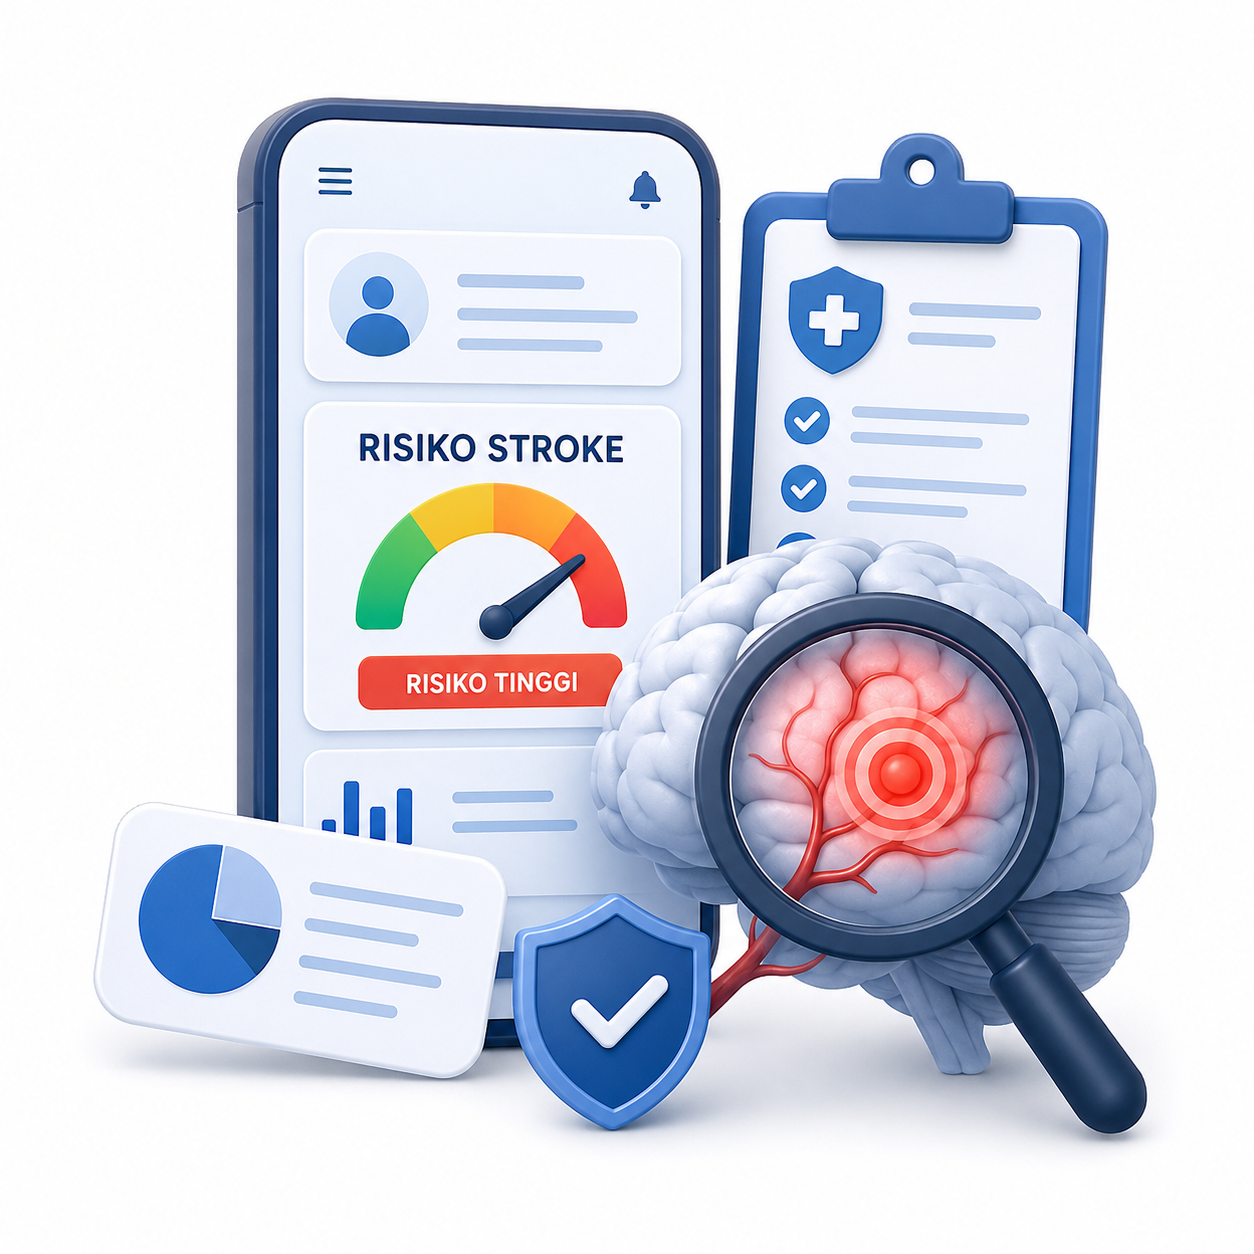
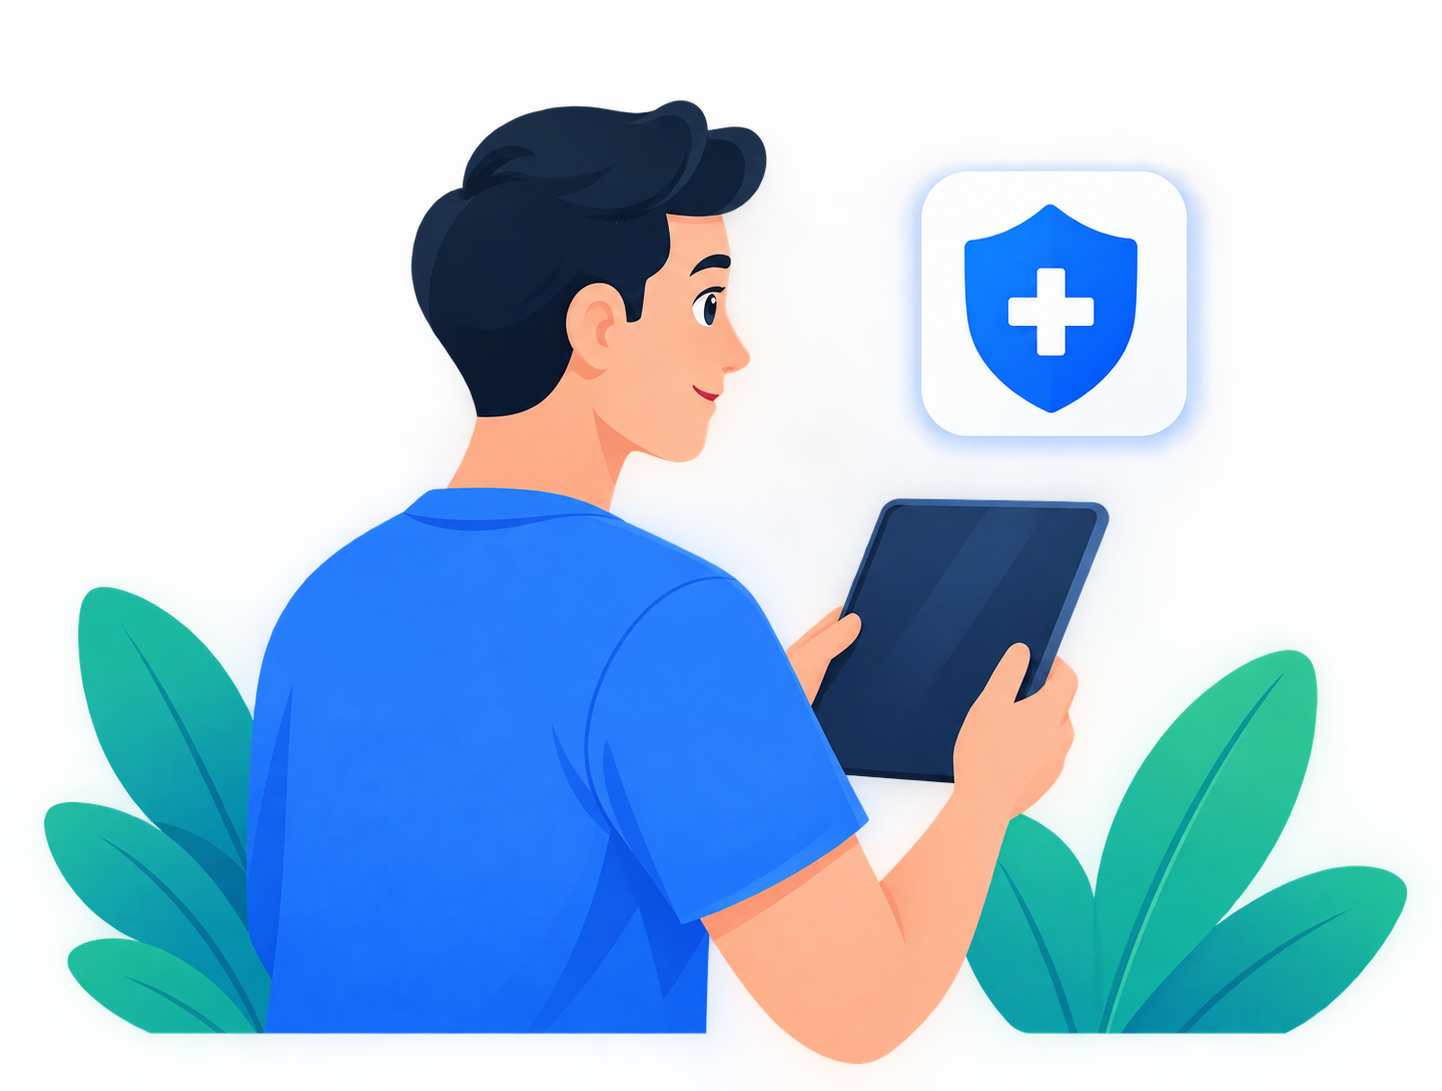
feat: add AboutDetect component and integrate into main page

diff --git a/src/app/user/components/working.tsx b/src/app/user/components/working.tsx
@@ -1,47 +1,95 @@
 import React from 'react';
-import widgets4 from '@/assets/images/landing-page/about-1.png';
-import widgets5 from '@/assets/images/landing/widgets-5.jpg';
-import widgets6 from '@/assets/images/landing/widgets-6.jpg';
-import widgets7 from '@/assets/images/landing/widgets-7.jpg';
-import widgets8 from '@/assets/images/landing/widgets-8.jpg';
-import widgets9 from '@/assets/images/landing/widgets-9.jpg';
+import { LuClipboardCheck, LuClipboardPen, LuClock, LuSettings } from 'react-icons/lu';
 
-import Image from 'next/image';
+type Step = {
+  number: number;
+  icon: React.ElementType;
+  iconColor: string;
+  iconBg: string;
+  title: string;
+  description: string;
+};
+
+const steps: Step[] = [
+  {
+    number: 1,
+    icon: LuClipboardPen,
+    iconColor: 'text-primary',
+    iconBg: 'bg-primary/10',
+    title: 'Isi Data Kesehatan',
+    description: 'Masukkan informasi kesehatan dan gejala yang Anda alami.',
+  },
+  {
+    number: 2,
+    icon: LuSettings,
+    iconColor: 'text-purple-500',
+    iconBg: 'bg-purple-500/10',
+    title: 'Proses Analisis Otomatis',
+    description: 'Sistem akan menganalisis data yang Anda masukkan secara otomatis.',
+  },
+  {
+    number: 3,
+    icon: LuClipboardCheck,
+    iconColor: 'text-success',
+    iconBg: 'bg-success/10',
+    title: 'Lihat Hasil Deteksi',
+    description: 'Dapatkan hasil prediksi risiko stroke secara cepat dan akurat.',
+  },
+  {
+    number: 4,
+    icon: LuClock,
+    iconColor: 'text-rose-500',
+    iconBg: 'bg-rose-500/10',
+    title: 'Pantau Riwayat Pemeriksaan',
+    description: 'Lihat kembali riwayat pemeriksaan yang pernah Anda lakukan.',
+  },
+];
 
 const Working = () => {
   return (
-    <section id="cara-kerja" className="relative lg:pb-24 md:pb-18 pb-12">
+    <section id="cara-kerja" className="relative lg:py-24 md:pb-18 pb-12">
       <div className="container">
-        <div className="flex flex-col lg:gap-y-20 gap-y-12">
-          <div className="grid lg:grid-cols-12 gap-6 items-center lg:mt-12 mt-8">
-            <div className="lg:col-span-5">
-              <h1 className="mb-3 leading-normal capitalize text-4xl font-semibold text-default-800">
-                Mudah Digunakan, Mudah Dipahami
-              </h1>
-              <p className="text-lg mb-4 text-default-500">
-                Tidak perlu proses yang rumit untuk mendapatkan informasi awal mengenai kondisi
-                kesehatan Anda. StrokeDetect menyediakan alur yang sederhana, mulai dari mengisi
-                data kesehatan hingga melihat hasil deteksi.
-              </p>
-              <ul className="flex flex-col gap-y-3 mb-6 text-lg list-disc list-inside text-default-900">
-                <li>Isi Data Kesehatan</li>
+        <div className="flex flex-col gap-y-12">
+          <div className="text-center lg:w-2xl mx-auto">
+            <span className="inline-block mb-4 px-3 py-1 rounded-full text-xs font-medium bg-primary/10 text-primary">
+              Cara Kerja
+            </span>
+            <h1 className="mb-4 leading-normal text-4xl font-semibold text-default-800">
+              Mudah Digunakan, Mudah Dipahami
+            </h1>
+            <p className="text-lg text-default-500">
+              Hanya dalam beberapa langkah sederhana, Anda sudah bisa mendapatkan hasil deteksi
+              risiko stroke dengan cepat dan akurat.
+            </p>
+          </div>
 
-                <li>Proses Analisis Otomatis</li>
-
-                <li>Lihat Hasil Deteksi</li>
-
-                <li>Pantau Riwayat Pemeriksaan</li>
-              </ul>
-            </div>
-
-            <div className="lg:col-span-6">
-              <Image src={widgets8} alt="" className="shadow-lg lg:ms-auto me-auto rounded-xl" />
-              <Image
-                src={widgets9}
-                alt=""
-                className="shadow-lg -mt-24 rounded-xl ms-auto lg:me-24 mr-40"
-              />
-            </div>
+          <div className="grid lg:grid-cols-4 md:grid-cols-2 gap-5">
+            {steps.map(step => (
+              <div key={step.number} className="card relative">
+                <div className="card-body">
+                  <div className="flex items-center gap-3 mb-4">
+                    <div
+                      className={`size-7 rounded-full flex items-center justify-center text-xs font-semibold text-white ${
+                        step.iconColor === 'text-primary'
+                          ? 'bg-primary'
+                          : step.iconColor === 'text-purple-500'
+                            ? 'bg-purple-500'
+                            : step.iconColor === 'text-success'
+                              ? 'bg-success'
+                              : 'bg-rose-500'
+                      }`}
+                    >
+                      {step.number}
+                    </div>
+                    <div className={`size-11 rounded-lg flex items-center justify-center ${step.iconBg}`}>
+                      <step.icon className={`size-5 ${step.iconColor}`} />
+                    </div>
+                  </div>
+                  <h5 className="mb-2 text-lg font-semibold text-default-800">{step.title}</h5>
+                  <p className="text-default-500">{step.description}</p>
+                </div>
+              </div>
+            ))}
           </div>
         </div>
       </div>

diff --git a/src/app/user/components/AboutHealth.jsx b/src/app/user/components/AboutHealth.jsx
@@ -1,0 +1,44 @@
+import Image from 'next/image';
+import Link from 'next/link';
+import { LuArrowRight } from 'react-icons/lu';
+import aboutHealthImage from '@/assets/images/landing-page/about-2.png';
+
+const AboutHealth = () => {
+  return (
+    <section className="relative lg:pb-24 md:pb-18 pb-12">
+      <div className="container">
+        <div className="rounded-2xl bg-primary/5 overflow-hidden">
+          <div className="grid lg:grid-cols-12 gap-3 items-center px-6 py-10 lg:px-12">
+            <div className="lg:col-span-6 lg:order-1 order-2">
+              <span className="inline-block mb-4 px-3 py-1 rounded-full text-xs font-medium bg-primary/10 text-primary">
+                Untuk Hidup Lebih Sehat
+              </span>
+              <h1 className="mb-4 leading-normal text-4xl font-semibold text-default-800">
+                Langkah Sederhana untuk Menjaga Kesehatan
+              </h1>
+              <p className="text-lg mb-6 text-default-500">
+                Menjaga kesehatan dapat dimulai dari kebiasaan sederhana dalam kehidupan
+                sehari-hari. Perhatikan pola makan, lakukan aktivitas fisik secara rutin, istirahat
+                yang cukup, dan pantau kondisi kesehatan secara berkala.
+              </p>
+              <Link href="#prediksi" className="btn bg-primary text-white">
+                <LuArrowRight className="size-4" />
+                Mulai Sekarang
+              </Link>
+            </div>
+
+            <div className="lg:col-span-6 lg:order-2 order-1 h-full">
+              <Image
+                src={aboutHealthImage}
+                alt="Ilustrasi menjaga kesehatan"
+                className="w-full max-w-lg h-auto mx-auto"
+              />
+            </div>
+          </div>
+        </div>
+      </div>
+    </section>
+  );
+};
+
+export default AboutHealth;

diff --git a/src/app/user/components/AboutDetect.jsx b/src/app/user/components/AboutDetect.jsx
@@ -1,0 +1,43 @@
+import Image from 'next/image';
+import Link from 'next/link';
+import { LuArrowRight } from 'react-icons/lu';
+import aboutDetectImage from '@/assets/images/landing-page/about-1.png';
+
+const AboutDetect = () => {
+  return (
+    <section className="relative lg:pb-24 md:pb-18 pb-12">
+      <div className="container">
+        <div className="rounded-2xl bg-primary/5 overflow-hidden">
+          <div className="grid lg:grid-cols-12 gap-6 items-center px-6 py-10 lg:px-12">
+            <div className="lg:col-span-6">
+              <Image
+                src={aboutDetectImage}
+                alt="Ilustrasi tentang StrokeDetect"
+                className="w-full max-w-sm h-auto mx-auto"
+              />
+            </div>
+
+            <div className="lg:col-span-6">
+              <span className="inline-block mb-4 px-3 py-1 rounded-full text-xs font-medium bg-primary/10 text-primary">
+                Tentang StrokeDetect
+              </span>
+              <h1 className="mb-4 leading-normal text-4xl font-semibold text-default-800">
+                Deteksi Dini, Cegah Stroke
+              </h1>
+              <p className="text-lg mb-6 text-default-500">
+                StrokeDetect adalah sistem deteksi dini stroke berbasis data kesehatan dan gejala,
+                yang menggunakan algoritma C4.5 untuk memprediksi risiko stroke secara akurat.
+              </p>
+              <Link href="#prediksi" className="btn bg-primary text-white">
+                <LuArrowRight className="size-4" />
+                Pelajari Lebih Lanjut
+              </Link>
+            </div>
+          </div>
+        </div>
+      </div>
+    </section>
+  );
+};
+
+export default AboutDetect;

diff --git a/src/app/user/components/AboutDetection.jsx b/src/app/user/components/AboutDetection.jsx
@@ -1,0 +1,40 @@
+import Image from 'next/image';
+import Link from 'next/link';
+import { LuArrowRight } from 'react-icons/lu';
+import aboutDetectionImage from '@/assets/images/landing-page/about-3.png';
+
+const AboutDetection = () => {
+  return (
+    <section className="relative lg:pb-24 md:pb-18 pb-12">
+      <div className="container">
+        <div className="rounded-2xl bg-gradient-to-r from-primary to-blue-700 overflow-hidden">
+          <div className="grid lg:grid-cols-12 gap-6 items-center px-6 py-10 lg:px-12">
+            <div className="lg:col-span-6">
+              <h1 className="mb-4 leading-normal text-4xl font-semibold text-white">
+                Mulai Periksa Kesehatan Otak Anda Sekarang Juga
+              </h1>
+              <p className="text-lg mb-6 text-white/80">
+                Deteksi risiko stroke lebih dini dengan mudah, cepat, dan aman bersama
+                StrokeDetect.
+              </p>
+              <Link href="#prediksi" className="btn bg-white text-primary">
+                <LuArrowRight className="size-4" />
+                Mulai Deteksi Sekarang
+              </Link>
+            </div>
+
+            <div className="lg:col-span-6">
+              <Image
+                src={aboutDetectionImage}
+                alt="Ilustrasi aplikasi StrokeDetect"
+                className="w-full max-w-sm h-auto mx-auto"
+              />
+            </div>
+          </div>
+        </div>
+      </div>
+    </section>
+  );
+};
+
+export default AboutDetection;

diff --git a/src/app/user/page.tsx b/src/app/user/page.tsx
@@ -3,10 +3,11 @@ import React from 'react';
 import Navbar from './components/Navbar';
 import Home from './components/Home';
 import About from './components/About';
-import Prediksi from './components/prediksi';
-import Riwayat from './components/riwayat';
 import Footer from './components/Footer';
 import Working from './components/working';
+import AboutDetect from './components/AboutDetect';
+import AboutHealth from './components/AboutHealth';
+import AboutDetection from './components/AboutDetection';
 
 export const metadata: Metadata = { title: 'Home' };
 const Page = () => {
@@ -16,8 +17,9 @@ const Page = () => {
       <Home />
       <About />
       <Working />
-      <Prediksi />
-      <Riwayat />
+      <AboutDetect />
+      <AboutHealth />
+      <AboutDetection />
       <Footer />
     </>
   );
